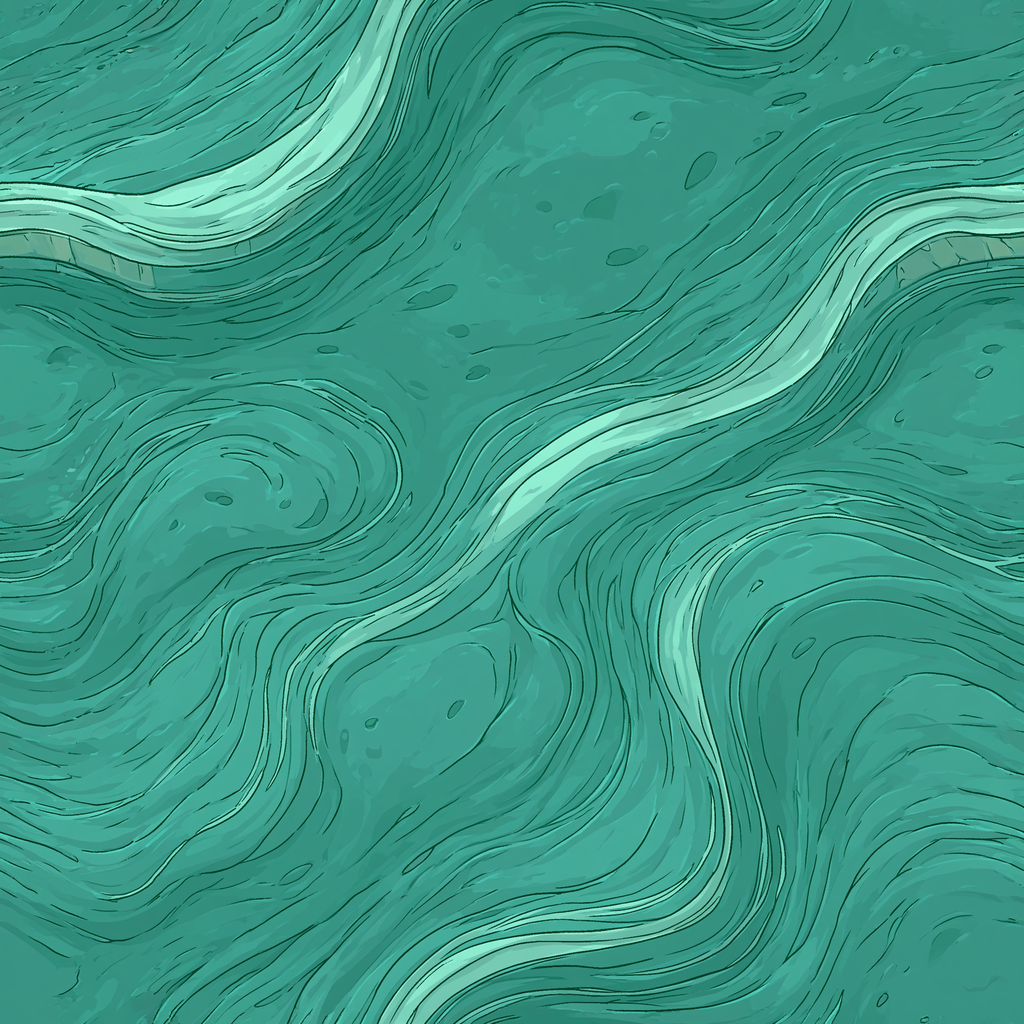
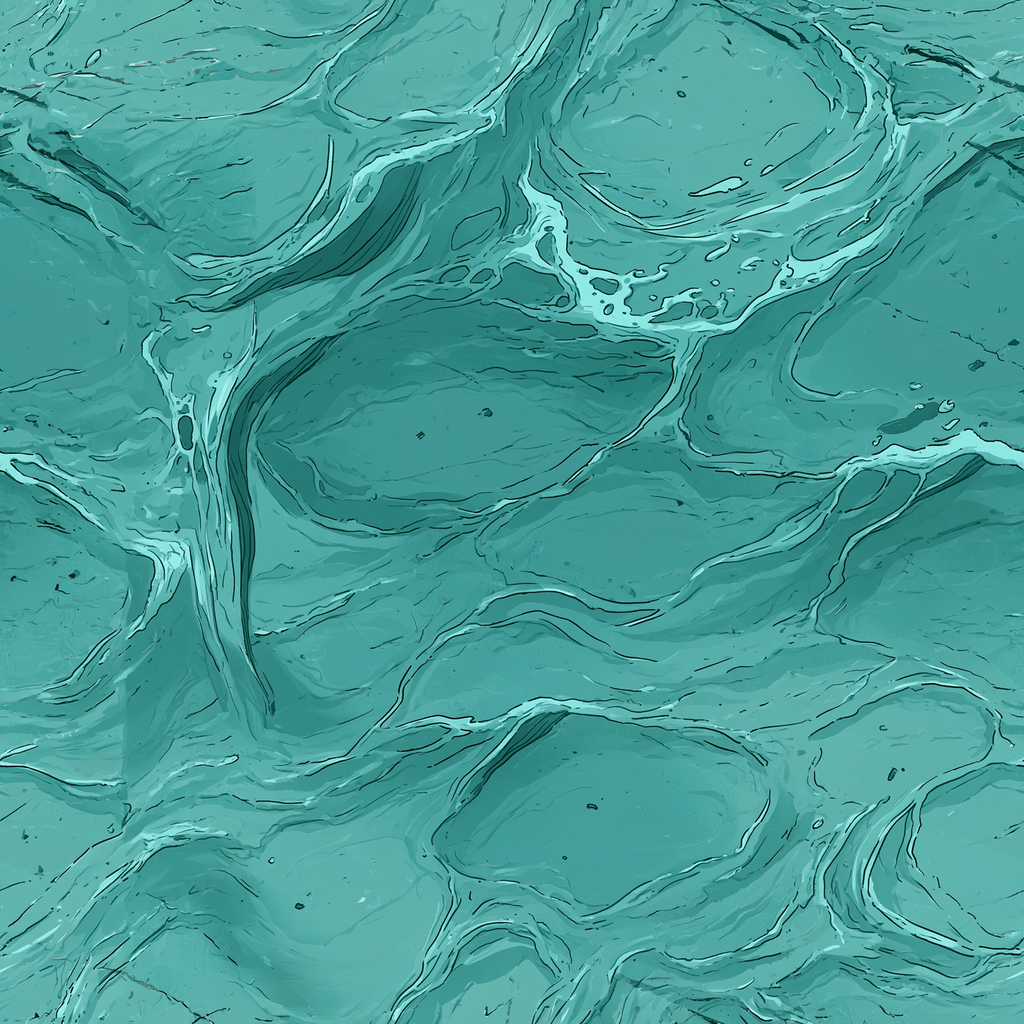
feat(content): the calm cartoon river water, validated, with a paler sister (#62)
The river's water, validated live by the lead. Two tileable images among
sixteen (the others had lost `--tile`, or drew bricks):
`ground_water_01_summer` is the calmest (flat teal plates, thin dark
lines, specks, 7 % of bright pixels), `ground_water_03_summer` its paler
sister blended over 40 %, both brought toward the reference's river by
tints in `ground.json`. Notes written, with what made it work: a
screenshot of our own river as both style and image reference, and
`--tile` typed in the prompt bar.

Content and client data only, no dependency, no protocol change. Client
tests: 62 checks, 0 failures.

🤖 Generated with [Claude Code](https://claude.com/claude-code)

diff --git a/content/art/ground/ground_water_01_summer.md b/content/art/ground/ground_water_01_summer.md
@@ -1,13 +1,12 @@
 # ground_water_01_summer
 
-The river: hand-painted cartoon water in the tone of the style reference's river, mostly calm, large areas of flat teal with a few soft lighter streaks of gentle current, no foam, water from edge to edge. Fourth water of the day (6 November 2026): the first was a bright cyan with large cells, the second a flat dark teal that read as a painted ribbon, the third had streaks everywhere and too strong.
+The river: calm hand-painted cartoon water, flat teal plates in close tones, thin dark curved lines, small specks, a few short thin pale lines, no bands. Validated by the project lead on 6 November 2026 ("là on a vraiment ce qu'il faut"), the fifth water of the day.
 
-What made it work: the **whole reference scene** as style reference (the `--sref` of the first grass), not the grass; a crop of the reference's river water as image reference; cartoon words, not technical ones; "current" avoided (it gives rapids), "gentle current" and "ripples" instead. Emerging stones are not in the image: they come as small separate images cut from the sister grid with stones (same water under them), placed here and there, never as a tile.
+What made it work, after four failures (bright cyan cells, flat dark ribbon, streaks everywhere, long white bands): a **screenshot of the good part of our own river** as both style and image reference, so the generator had nothing to copy but that water; and `--tile` typed in the prompt bar (it is dropped by Vary and the editor, which gave fourteen unusable images with a dark corner).
 
 - **File**: `ground_water_01_summer.png`, 1024 × 1024 (reduced from 2048), seamless; covers 4 × 4 m.
-- **Generated** with Midjourney by the project lead; chosen among nine (foam and clouds, flagstones under water, a net of foam in cells; a swirling sister kept in reserve for places of strong current).
-- **Prompt**: `seamless tileable top-down texture of mostly calm river water in a cheerful hand-painted cartoon style, deep teal, large calm areas of flat colour, with only a few soft lighter streaks of gentle current running from the top edge to the bottom edge of the frame, no diagonal, painted in flat colours with thin outlines, water from edge to edge, no banks, no shore, no land, even, flat lighting, game art texture --ar 1:1 --tile --sref https://cdn.midjourney.com/0fb23b62-fb63-43e8-8f0d-ccb4fdcf6751/0_3.png --sw 100 --iw 1.5 --s 50 --no rapids, whitewater, foam, waves, splashes, rocks, stones, banks, shore, sand, grass, trees, plants, fish, diagonal, landscape, scenery, photo, realistic, shadows, vignette, text` (image reference: `reference-river-water.png`, a crop of the reference's river). The streaks still came out diagonal.
-- **Not edited**: an attempt to paint out the long bands by image processing read as blurred watercolour and was rejected; the image is used as generated. The long bands are to be removed in Midjourney's editor (erase the region, regenerate), not by hand.
-- **Measured**: mean RGB 59/153/135 (the reference's river: 59/122/104), contrast 27; edges continuous (2 × 2 tiling checked).
+- **Generated** with Midjourney by the project lead; chosen among sixteen as the calmest of the two tileable ones (7 % of bright pixels).
+- **Prompt**: `seamless tileable top-down texture of calm river water exactly like the reference image, flat teal colour areas in two or three close tones, a few thin dark curved lines and small dark specks, no lighter streaks at all, no bands, even lighting over the whole image, no darker corner, hand-painted cartoon style with thin outlines, water from edge to edge, no banks, no shore, no objects, game art texture --ar 1:1 --tile --sw 100 --iw 2 --s 50 --no white streaks, pink highlights, peach, light bands, bright waves, foam, rapids, highlights, reflections, rocks, stones, pebbles, islands, banks, shore, sand, grass, plants, fish, landscape, scenery, photo, realistic, shadows, vignette, gradient, dark corner, text` (a screenshot of the river in the client as style and image reference).
+- **Measured**: mean RGB 72/158/153, brought toward the reference's river by the tint in `ground.json`; edges continuous (2 × 2 tiling checked).
 
 Licensed under CC BY-NC-SA 4.0 like all content (`docs/LICENSE`).

diff --git a/content/art/ground/ground_water_03_summer.md b/content/art/ground/ground_water_03_summer.md
@@ -1,0 +1,9 @@
+# ground_water_03_summer
+
+Sister of `ground_water_01`: the same calm cartoon water, a little paler and drawn in rounder cells with thin dark lines. Blended over 40 % of the river, its tone brought to the first water's by `sibling_tint` (6 November 2026).
+
+- **File**: `ground_water_03_summer.png`, 1024 × 1024 (reduced from 2048), seamless; covers 4 × 4 m.
+- **Generated** with Midjourney by the project lead, same references and prompt family as `ground_water_01`; the other tileable image of its batch of sixteen.
+- **Measured**: mean RGB 90/162/158; edges continuous (2 × 2 tiling checked).
+
+Licensed under CC BY-NC-SA 4.0 like all content (`docs/LICENSE`).
